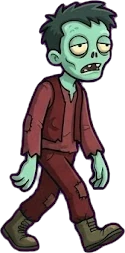
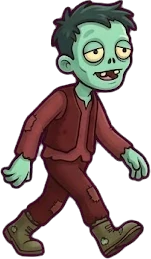
Bog' himoyasi: yerdagi sakrovchi, yiqilish va kuyish holatlari yangi uslubda; menyu va bosqichlar ekrani hovli fonida
Claude-Session: https://claude.ai/code/session_017as4gJrNETuDbAwsfzAAdW

diff --git a/bog/index.html b/bog/index.html
@@ -271,7 +271,7 @@ function icon(t,x,y,s){g.save();g.translate(x,y);g.scale(s,s);drawPlant(t,0,0,t=
 
 // ================= RASMLI QAHRAMONLAR =================
 // O'simliklar tayyor rasmlardan chiziladi; rasm yuklanmagan bo'lsa eski chizma ishlaydi.
-const IMG={},IMGV=8;for(const n of ['pea0','pea1','twin0','twin1','ice0','ice1','sun0','sun1','nut0','nut1','nut2','xnut','bomb0','bomb1','mine0','mine1','snap0','snap1','shot','shoti','zb0','zb1','zbe','zf0','zf1','zs0','zs1','zsj','zr0','zr1','zre','sunc','pot0','pot1','pot2','bas0','bas1','shovel','cart0','cart1','boom','bg','ui_card','ui_bar','ui_b1','ui_b2','ui_panel','ui_pause','ui_plate']){const im=new Image();im.onload=()=>{IMG[n]=im};im.src='img/'+n+'.webp?v='+IMGV}
+const IMG={},IMGV=9;for(const n of ['pea0','pea1','twin0','twin1','ice0','ice1','sun0','sun1','nut0','nut1','nut2','xnut','bomb0','bomb1','mine0','mine1','snap0','snap1','shot','shoti','zb0','zb1','zbe','zf0','zf1','zs0','zs1','zsj','zr0','zr1','zre','zfe','zfall','zash','sunc','pot0','pot1','pot2','bas0','bas1','shovel','cart0','cart1','boom','bg','ui_card','ui_bar','ui_b1','ui_b2','ui_panel','ui_pause','ui_plate']){const im=new Image();im.onload=()=>{IMG[n]=im};im.src='img/'+n+'.webp?v='+IMGV}
 // rasmni pastki o'rtasi (x,y) nuqtaga, balandligi h qilib chizadi
 function spr(n,x,y,h,o){const im=IMG[n];if(!im)return false;const w=h*im.width/im.height;g.save();g.translate(x,y);if(o){if(o.rot)g.rotate(o.rot);if(o.sx||o.sy)g.scale(o.sx||1,o.sy||1)}g.drawImage(im,-w/2,-h,w,h);g.restore();return true}
 const drawPlant0=drawPlant,drawNut0=drawNut;
@@ -293,12 +293,13 @@ const drawZombie0=drawZombie;
 drawZombie=function(z){if(z.gone)return;const base=z.type==='flag'?'zf':z.pole||z.jump>0?'zs':z.type==='pole'?'zr':'zb';let n,h=90,rot=0;
  if(z.jump>0){n='zsj';h=104}else if(z.eat){n=IMG[base+'e']?base+'e':base+'0';rot=Math.sin(z.ph*16)*.05;if(base==='zs')h=112}
  else{n=base+(Math.floor(z.ph*(z.pole?5:2.4))%2);if(base==='zs')h=112}
+ const burnt=z.ash&&IMG.zash,down=z.dead&&!z.ash&&IMG.zfall;if(burnt){n='zash';h=92;rot=0}else if(down){n='zfall';h=74;rot=0}
  if(!IMG[n])return drawZombie0(z);
  const y=rowY(z.row);let jy=0;if(z.jump>0)jy=-Math.sin(z.jump*Math.PI)*70;const d=z.dead;let alpha=1,fall=0;if(d){fall=cl(d/.5);alpha=1-cl((d-.7)/.5)}
  const bobY=z.eat||z.jump>0?0:Math.abs(Math.sin(z.ph*(z.pole?5:2.4)*Math.PI))*2.5;
- g.save();g.globalAlpha=alpha;shadow(z.x,y,22);g.translate(z.x,y+jy+4);if(fall){g.translate(fall*14,0);g.rotate(fall*1.45)}g.rotate(rot);g.scale(-1,1); // ko'zgu
- const k=z.ash?'ash':z.flash>0?'flash':z.slow>0?'slow':'',im=k?tinted(n,k):IMG[n],w=h*im.width/im.height;g.drawImage(im,-w/2,-h-bobY,w,h);
- if(z.arm>0){const dm=1-z.arm/z.armMax,hn=z.type==='helm'?(dm>.66?'pot2':dm>.33?'pot1':'pot0'):(dm>.5?'bas1':'bas0'),hi=IMG[hn];if(hi){const hw=z.type==='helm'?40:46,hh=hw*hi.height/hi.width;g.save();g.translate(z.eat?14:5,-h-bobY+(z.type==='helm'?27:24)+(z.eat?3:0));g.rotate(-.1);g.drawImage(z.ash?tinted(hn,'ash'):hi,-hw/2,-hh,hw,hh);g.restore()}else{g.translate(-7,-h-bobY+16);g.rotate(-.08);drawHat(z.type,dm)}}
+ g.save();g.globalAlpha=alpha;shadow(z.x,y,22);g.translate(z.x,y+jy+4);if(fall){if(down)g.translate(fall*10,(1-fall)*-10);else if(burnt)g.translate(0,0);else{g.translate(fall*14,0);g.rotate(fall*1.45)}}g.rotate(rot);g.scale(-1,1); // ko'zgu
+ const k=burnt?'':z.ash?'ash':z.flash>0&&!z.dead?'flash':z.slow>0?'slow':'',im=k?tinted(n,k):IMG[n],w=h*im.width/im.height;g.drawImage(im,-w/2,-h-bobY,w,h);
+ if(z.arm>0&&!z.dead){const dm=1-z.arm/z.armMax,hn=z.type==='helm'?(dm>.66?'pot2':dm>.33?'pot1':'pot0'):(dm>.5?'bas1':'bas0'),hi=IMG[hn];if(hi){const hw=z.type==='helm'?40:46,hh=hw*hi.height/hi.width;g.save();g.translate(z.eat?14:5,-h-bobY+(z.type==='helm'?27:24)+(z.eat?3:0));g.rotate(-.1);g.drawImage(z.ash?tinted(hn,'ash'):hi,-hw/2,-hh,hw,hh);g.restore()}else{g.translate(-7,-h-bobY+16);g.rotate(-.08);drawHat(z.type,dm)}}
  g.restore()};
 
 // ---- buyumlar: eshak arava (qatorni tozalaydi), belkurak, uchib ketgan zirh, portlash ----
@@ -463,7 +464,8 @@ function selType(){if(sel==null)return null;return LV[LI].mode?(belt[sel]&&belt[
 function button(x,y,w,h,label,cb,col='#ffb21c',tc='#3b2a12',fs=24){g.fillStyle='rgba(0,0,0,.25)';rr(x,y+4,w,h,h/2.6);g.fill();g.fillStyle=col;rr(x,y,w,h,h/2.6);g.fill();g.fillStyle='rgba(255,255,255,.25)';rr(x+6,y+4,w-12,h*.4,h/4);g.fill();txt(label,x+w/2,y+h/2+1,fs,tc,'center',900,w-24);btns.push({x,y,w,h,cb})}
 function panel(x,y,w,h){g.fillStyle='rgba(0,0,0,.3)';rr(x,y+6,w,h,22);g.fill();g.fillStyle='#f3ead2';rr(x,y,w,h,22);g.fill();g.strokeStyle='#8a6a3a';g.lineWidth=5;g.stroke()}
 function drawMenu(){btns=[];const gr=g.createLinearGradient(0,0,0,LH);gr.addColorStop(0,'#8fd0ee');gr.addColorStop(.55,'#cdeefa');gr.addColorStop(.56,'#6cc755');gr.addColorStop(1,'#3f8f36');g.fillStyle=gr;g.fillRect(0,0,LW,LH);
- drawSunCoin(840,90,46,T*.5);for(let i=0;i<9;i++){g.fillStyle=i%2?'#5cb84a':'#6cc755';g.fillRect(i*107,300,107,240)}
+ if(IMG.bg){g.drawImage(IMG.bg,-150,-40,1160,648);const sh=g.createLinearGradient(0,0,0,LH);sh.addColorStop(0,'rgba(20,50,20,.5)');sh.addColorStop(.6,'rgba(20,50,20,.12)');sh.addColorStop(1,'rgba(20,50,20,0)');g.fillStyle=sh;g.fillRect(0,0,LW,LH)}else for(let i=0;i<9;i++){g.fillStyle=i%2?'#5cb84a':'#6cc755';g.fillRect(i*107,300,107,240)}
+ drawSunCoin(840,90,46,T*.5);
  // sahna
  [['sun',120],['pea',215],['nut',310]].forEach(([t,x],i)=>drawPlant(t,x,470,{...ICONP,ph:T+i,tm:9}));
  const zz=[{type:'pot',x:840},{type:'helm',x:760},{type:'basic',x:690}];zz.forEach((q,i)=>drawZombie({...q,row:0,x:q.x,arm:1,armMax:1,ph:T+i,eat:null,dead:0,jump:0,slow:0,flash:0,pole:false,_y:1,row:(470-GY-CH+14)/CH}));
@@ -474,7 +476,7 @@ function drawMenu(){btns=[];const gr=g.createLinearGradient(0,0,0,LH);gr.addColo
  button(bx,332,145,44,TX('Ovoz')+': '+TX(SND?'yoqilgan':"o'chirilgan"),()=>{SND=!SND;store.set('snd',SND);audio();SFX.tap()},'#e3f2d2','#2c5a1f',15);
  button(bx+155,332,145,44,TX('Hamrohga qaytish'),exitGame,'#e3f2d2','#2c5a1f',15);
 }
-function drawLevels(){btns=[];g.fillStyle='#4a9f3d';g.fillRect(0,0,LW,LH);for(let i=0;i<12;i++){g.fillStyle=i%2?'#5cb84a':'#6cc755';g.fillRect(i*80,0,80,LH)}
+function drawLevels(){btns=[];g.fillStyle='#4a9f3d';g.fillRect(0,0,LW,LH);if(IMG.bg){g.drawImage(IMG.bg,-211,-47,1234,689);g.fillStyle='rgba(20,45,20,.5)';g.fillRect(0,0,LW,LH)}else for(let i=0;i<12;i++){g.fillStyle=i%2?'#5cb84a':'#6cc755';g.fillRect(i*80,0,80,LH)}
  otxt(TX('Bosqichlar'),LW/2,54,44,'#fff','#2c5a1f',9);
  for(let i=0;i<10;i++){const x=120+(i%5)*150,y=120+Math.floor(i/5)*170,open=i<=prog;g.fillStyle='rgba(0,0,0,.25)';rr(x,y+5,120,140,16);g.fill();g.fillStyle=open?'#f3ead2':'#9bb08c';rr(x,y,120,140,16);g.fill();g.strokeStyle=open?'#8a6a3a':'#6f8463';g.lineWidth=4;g.stroke();
   txt('1-'+(i+1),x+60,y+28,26,open?'#3b2a12':'#5f7355');const rw=LV[i].reward;if(open){if(P[rw])icon(rw,x+60,y+118,.85);else if(rw==='shovel')drawShovel(x+60,y+88,1.2);else txt(rw==='note'?'✉':'🏆',x+60,y+88,40);if(i<prog){g.fillStyle='#3fae3a';ci(x+100,y+22,13);g.fill();txt('✓',x+100,y+23,17,'#fff')}btns.push({x,y,w:120,h:140,cb:()=>{audio();newLevel(i)}})}else txt('🔒',x+60,y+88,36)}

diff --git a/index.html b/index.html
@@ -3985,7 +3985,7 @@ function viewSp(B,i){
   $('#spback').onclick=()=>{srHush();clearInterval(spTimer);srView='menu';viewSert()};
 }
 
-const APP_VER='20261119h';
+const APP_VER='20261119i';
 (function(){try{fetch('version.json?t='+Date.now(),{cache:'no-store'}).then(r=>r.ok?r.json():null).then(j=>{if(!j||!j.v||j.v===APP_VER)return;
   const k='hv_'+j.v;if(sessionStorage.getItem(k))return;sessionStorage.setItem(k,1);const u=new URL(location.href);u.searchParams.set('v',j.v);location.replace(u.toString())}).catch(()=>{})}catch(e){}})();
 // oflayn rejim: ilova va o'yinlar internetsiz ham ochiladi
